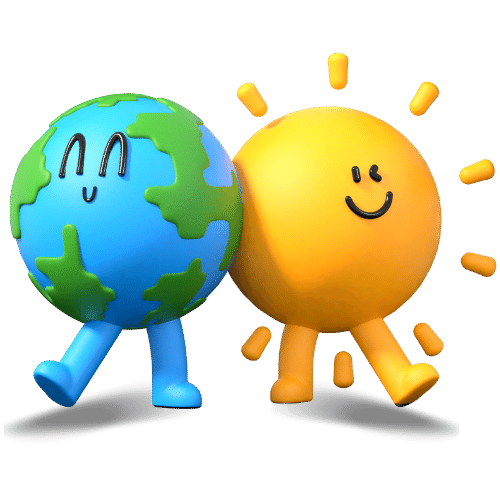
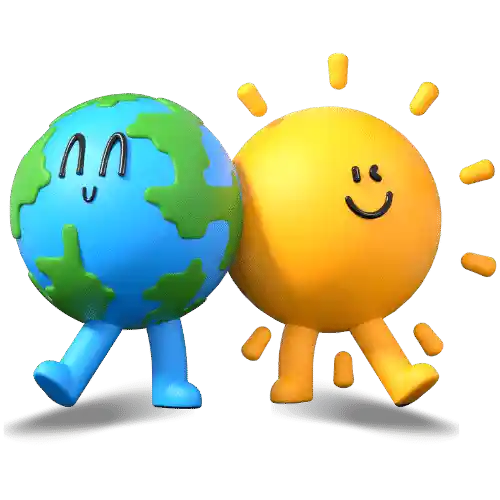
image optimize

diff --git a/index.html b/index.html
@@ -70,9 +70,7 @@
         <div class = "background">
           <div class="banner-text">
             <h1 class="neonText" style="font-family: 'Quicksand', sans-serif;">You can save <span style="color: #d6d00b"><u>hundreds</u> of dollars</span> and the <span style="color: green">planet</span> by switching energy retailers</h1>
-            <h2>It's possible to save hundreds of dollars, and prevent the carbon emissions of one car for a whole year, every year!</h2> 
-            <br>
-            <h3>Compare and find quality energy retailers</h2>            
+            <h2>It's possible to save hundreds of dollars, and prevent the carbon emissions of one car for a whole year, every year!</h2>            
             <button class="trigger">Start saving now</button>
           </div>
           <div class ="hero-graphic">
@@ -83,13 +81,13 @@
               <div class ="co2-image">
                 <img src= "images/co2.webp">
               </div>
-              <p class="funFact" id="fact1">64% of Aussies are currently paying Origin, AGL, and EnergyAus even though they are biggest polluters in the country.</p>
+              <p class="funFact" id="fact1">Origin, AGL, and EnergyAus are the 1st, 2nd and 4th biggest polluters of carbon emissions in Australia</p>
             </div>
             <div class="fact2">
               <div class ="money-image">
                 <img src= "images/money.webp">
               </div>
-              <p class="funFact" id="fact2">On average the dirty three are between 8 to 10% more expensive than other energy retailers!</p>
+              <p class="funFact" id="fact2">64% of Aussies are currently paying the dirty three between 8 to 10% more for their energy bill!</p>
             </div>
             <div class="fact3">
               <div class ="plant-image">

diff --git a/styles/css/styles.css b/styles/css/styles.css
@@ -112,6 +112,7 @@ justify-items: center;
 
 .funFact {
 font-size: medium;
+margin: 0px;
 }
 
 .fact1 {
@@ -123,7 +124,7 @@ background-color: #ffffff;
 border-radius: 30px;
 padding: 10px 15px 10px 15px;
 width: 80%;
-min-height: 7vh;
+min-height: 6vh;
 }
 
 .co2-image {
@@ -150,7 +151,7 @@ background-color: #ffffff;
 border-radius: 30px;
 padding: 10px 15px 10px 15px;
 width: 80%;
-min-height: 7vh;
+min-height: 6vh;
 }
 
 .money-image {
@@ -177,7 +178,7 @@ background-color: #ffffff;
 border-radius: 30px;
 padding: 10px 15px 10px 15px;
 width: 80%;
-min-height: 7vh;
+min-height: 6vh;
 }
 
 .plant-image {
